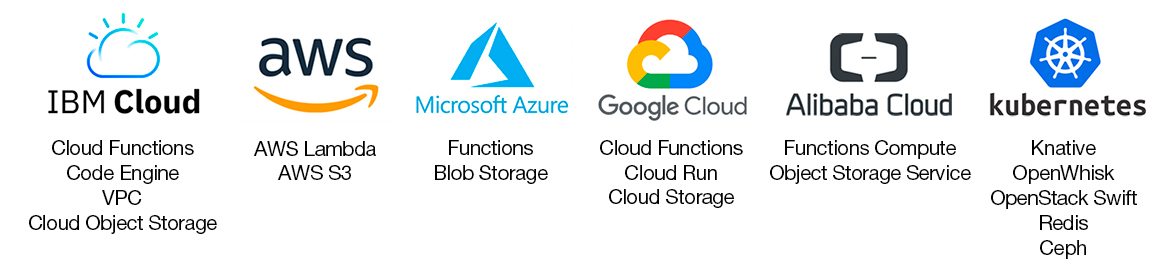
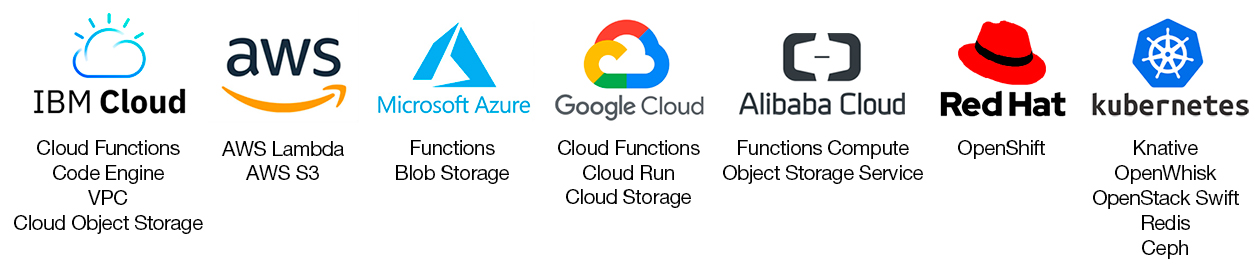
update docs

diff --git a/README.md b/README.md
@@ -33,7 +33,7 @@ Lithops provides an extensible backend architecture (compute, storage) that is d
 
 <p align="center">
 <a href="config/README.md#compute-and-storage-backends">
-<img src="docs/images/multicloud.jpg" alt="Multicloud Lithops" width='90%' title="Multicloud Lithops"/>
+<img src="docs/images/multicloud.jpg" alt="Multicloud Lithops" width='99%' title="Multicloud Lithops"/>
 </a>
 </p>
 
